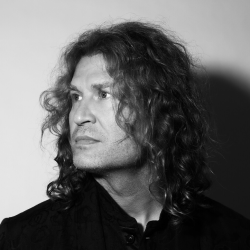
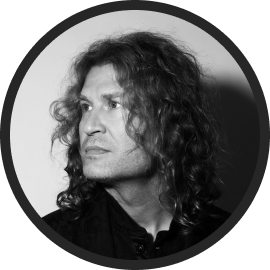
Added band member buttons to about page

diff --git a/src/components/AboutContent/AboutContent.js b/src/components/AboutContent/AboutContent.js
@@ -4,17 +4,42 @@ const AboutContent = () => {
     const initialState = {band: true, brandon: false, ronnie: false, dave: false, mark: false}
     const [displayedInfo, setDisplayedInfo] = useState(initialState);
 
-    const toggleBandInfo = () => {
-        if (displayedInfo.band) {
-            setDisplayedInfo({...initialState, band: false});
-        } else {
-            setDisplayedInfo({...initialState, band: true });
+    const selectBandInfo = () => {
+        if (!displayedInfo.band) {
+            setDisplayedInfo({...initialState});
+        }
+    }
+
+    const selectBrandon = () => {
+        if (!displayedInfo.brandon) {
+            setDisplayedInfo({...initialState, band: false, brandon: true});
+        }
+    }
+
+    const selectRonnie = () => {
+        if (!displayedInfo.ronnie) {
+            setDisplayedInfo({...initialState, band: false, ronnie: true});
+        }
+    }
+
+    const selectMark = () => {
+        if (!displayedInfo.mark) {
+            setDisplayedInfo({...initialState, band: false, mark: true});
+        }
+    }
+
+    const selectDave = () => {
+        if (!displayedInfo.dave) {
+            setDisplayedInfo({...initialState, band: false, dave: true});
         }
     }
 
     return (
-        <div className="contentContainer bg-full-band-photo bg-[center_24px]">
-            <BandLogo selected={displayedInfo.band} handleClick={toggleBandInfo} />
+        <div className="contentContainer bg-full-band-photo bg-[center_24px] flex-col">
+            <FullBand selectedState={displayedInfo} selectBrandon={selectBrandon} 
+                selectRonnie={selectRonnie} selectMark={selectMark} selectDave={selectDave} />
+
+            <BandLogo selected={displayedInfo.band} handleClick={selectBandInfo} />
         </div>
     );
 }
@@ -29,8 +54,50 @@ const BandLogo = ({ selected, handleClick }) => {
     }
 
     return (
-        <div onClick={() => handleClick()} className={`${logo} about-band-btn`} />
+        <div onClick={() => handleClick()} className={`${logo} about-band-btn self-center justify-center`} />
     )
+}
+
+const FullBand = ({ selectedState, selectBrandon, selectRonnie, selectMark, selectDave}) => {
+    return (
+        <div className='flex flew-row justify-center items-center p-2 flex-wrap'>
+            <BandMember name='brandon' selected={selectedState.brandon} handleSelect={selectBrandon} key='brandon'/>
+            <BandMember name='ronnie' selected={selectedState.ronnie} handleSelect={selectRonnie} key='ronnie' />
+            <BandMember name='mark' selected={selectedState.mark} handleSelect={selectMark} key='mark' />
+            <BandMember name='dave' selected={selectedState.dave} handleSelect={selectDave} key='dave' />
+        </div>
+    );
+}
+
+const BandMember = ({ name, selected, handleSelect }) => {
+    let colorPhoto;
+    let bwPhoto;
+    switch (name) {
+        case 'brandon':
+            colorPhoto = 'bg-brandon-color';
+            bwPhoto = 'bg-brandon-bw';
+            break;
+        case 'ronnie':
+            colorPhoto = 'bg-ronnie-color';
+            bwPhoto = 'bg-ronnie-bw';
+            break;
+        case 'mark':
+            colorPhoto = 'bg-mark-color';
+            bwPhoto = 'bg-mark-bw';
+            break;
+        case 'dave':
+            colorPhoto = 'bg-dave-color';
+            bwPhoto = 'bg-dave-bw';
+            break;
+
+        // no default
+    }
+
+    return selected ? (
+        <div className={`${colorPhoto} w-[150px] h-[150px] bg-cover hover:opacity-90 hover:cursor-pointer ml-4 mt-4`} onClick={() => handleSelect()} />
+    ) : (
+        <div className={`${bwPhoto} w-[150px] h-[150px] bg-cover hover:opacity-90 hover:cursor-pointer ml-4 mt-4`} onClick={() => handleSelect()} />
+    );
 }
 
 export default AboutContent;

diff --git a/tailwind.config.js b/tailwind.config.js
@@ -1,6 +1,5 @@
 module.exports = {
   mode: 'jit',
-  purge: ['./src/**/*.{js,jsx,ts,tsx}', './public/index.html'],
   content: [
     "./src/**/*.{js,jsx,ts,tsx}",
   ],
@@ -25,6 +24,14 @@ module.exports = {
         'full-band-photo': "url('/src/images/fullBandTransparent.png')",
         'unlit-logo': "url('/src/images/bandNameWhite.png')",
         'lit-logo': "url('/src/images/bandNameLight.png')",
+        'brandon-color': "url('/src/images/brandonColor.png')",
+        'brandon-bw': "url('/src/images/brandonBW.png')",
+        'dave-color': "url('/src/images/daveColor.png')",
+        'dave-bw': "url('/src/images/daveBW.png')",
+        'mark-color': "url('/src/images/markColor.png')",
+        'mark-bw': "url('/src/images/markBW.png')",
+        'ronnie-color': "url('/src/images/ronnieColor.png')",
+        'ronnie-bw': "url('/src/images/ronnieBW.png')",
       },
 
       colors: {

diff --git a/src/index.css b/src/index.css
@@ -64,7 +64,11 @@
 
   .contentContainer {
     @apply min-h-screen bg-cover bg-no-repeat bg-fixed
-     flex flex-row justify-center items-center flex-wrap pt-20 overflow-auto px-3;
+     flex flex-row flex-wrap pt-[100px] overflow-auto px-3;
+  }
+
+  .centerItems {
+    @apply justify-center items-center;
   }
 
   .albumLink {
@@ -76,6 +80,6 @@
   }
 
   .about-band-btn {
-    @apply w-[260px] h-[64px] bg-cover bg-black border-4 border-black rounded p-2 hover:cursor-pointer self-start m-10;
+    @apply w-[325px] h-[86px] bg-cover bg-black border-8 border-black rounded p-2 hover:cursor-pointer self-start my-6;
   }
 }

diff --git a/src/components/PlayerContent/PlayerContent.js b/src/components/PlayerContent/PlayerContent.js
@@ -42,7 +42,7 @@ const PlayerContent = ({ albums=albumsArr }) => {
     }
 
     return (
-        <div className='contentContainer bg-pm-band-photo bg-[center_64px]'>
+        <div className='contentContainer bg-pm-band-photo bg-[center_64px] centerItems'>
             <AudioPlayer src={audioControls.src} handleEnded={() => stopAllPlaying()}/>
             {albumList.map((album, index) => {
                 return <AlbumLink color={`${album.color}`} image={`${album.image}`} onClick={() => handleClick(index)} musicPlaying={album.playing} key={album.id} />
